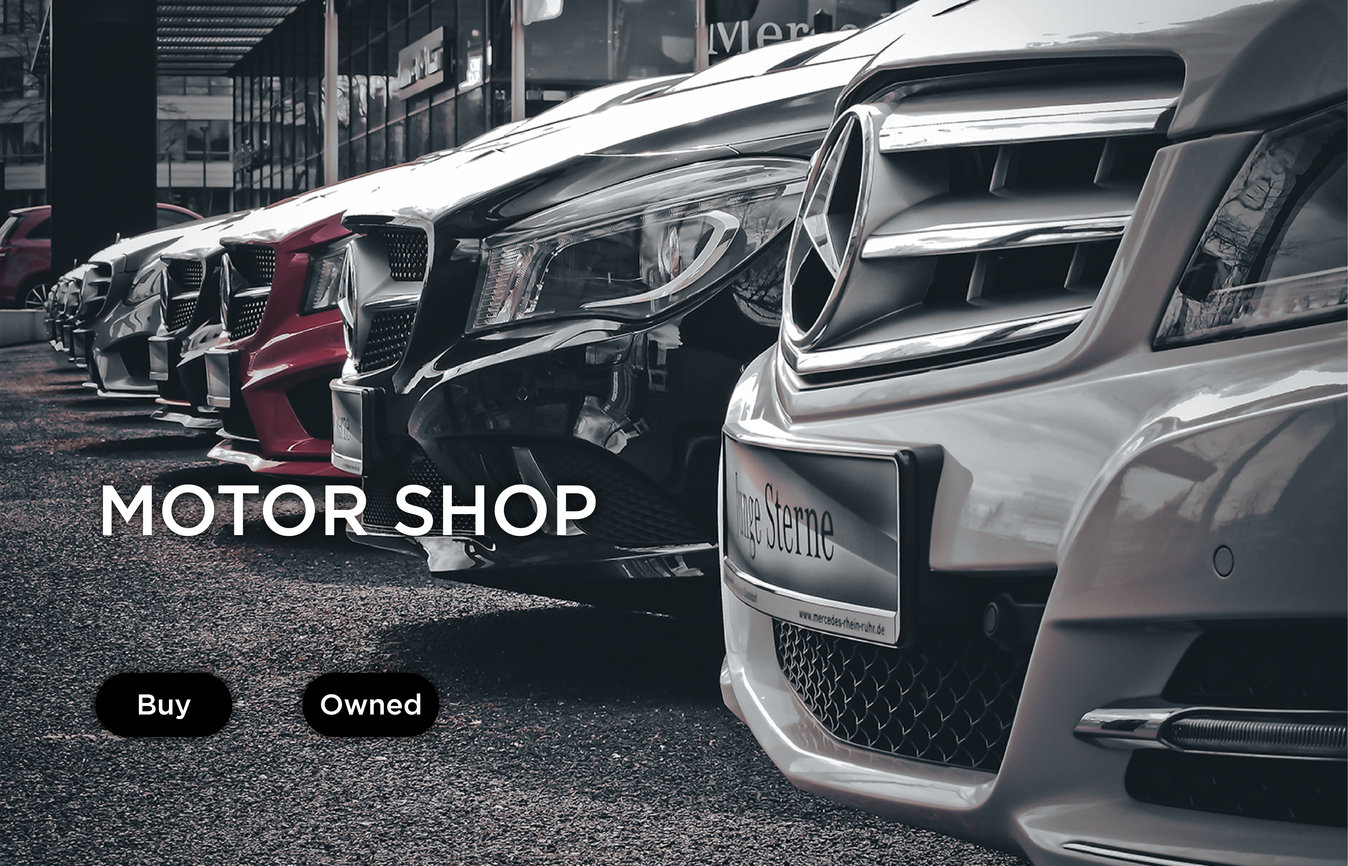
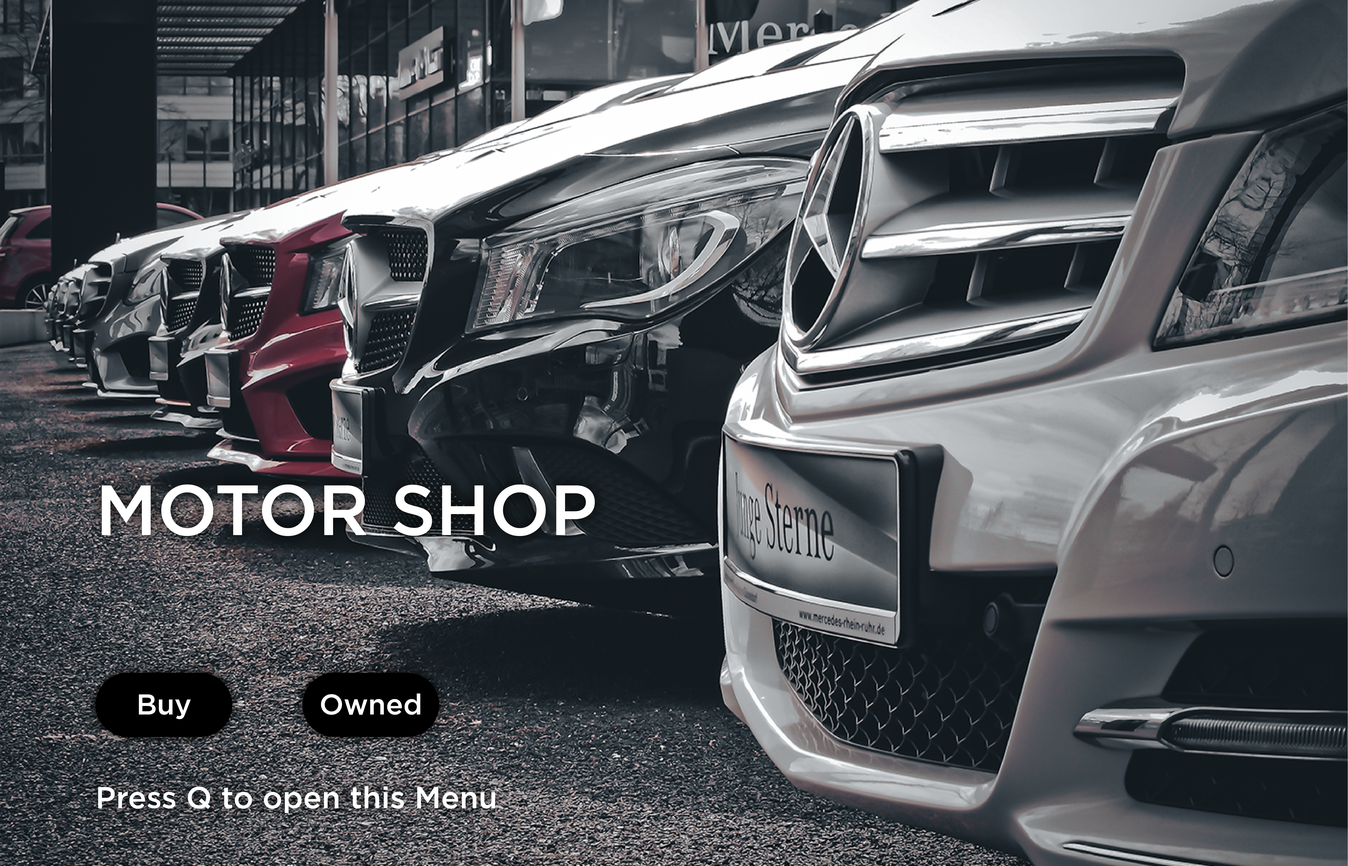
Creación de la interacción entre pantallas

Changed region(s): [[0.0624, 0.9048, 0.3744, 0.936], [0.0936, 0.5616, 0.1248, 0.5928]]

diff --git a/app.js b/app.js
@@ -1,30 +1,104 @@
 class App {
-    constructor(screen) {
-        this.screen = screen;
+    constructor(app) {
+        this.app = app;
+        this.screen = 1;
+        this.menu = this.app.loadImage('Menu.png');
+        this.buy = this.app.loadImage('Comprar.png');
+        this.choose = this.app.loadImage('Escoger.png');
+        this.brands = this.app.loadImage('Marcas.png');
+        this.filters = this.app.loadImage('Filtros.png');
+        this.owned = this.app.loadImage('Comprados.png');
     }
-    app(screen) {
-        switch (screen) {
+    application() {
+        switch (this.screen) {
             case 1: //Menu
+                this.app.image(this.menu, 0, 0, 1400, 900);
+                break;
+            case 2: //Escoger
+                this.app.image(this.choose, 0, 0, 1400, 900);
+                break;
+            case 3: //Filtro
+                this.app.image(this.filters, 0, 0, 1400, 900);
+                break;
+            case 4: // Marcas
+                this.app.image(this.brands, 0, 0, 1400, 900);
+                break;
+            case 5: // Comprar
+                this.app.image(this.buy, 0, 0, 1400, 900);
+                break;
+            case 6: // Comprados
+                this.app.image(this.owned, 0, 0, 1400, 900);
+                break;
+        }
+    }
+    interaction() {
+        switch (this.screen) {
+            case 1: // Menu
+                if (98 < mouseX && mouseX < 242 && 699 < mouseY && mouseY < 766) {
+                    this.screen = 2;
+                }
+                if (314 < mouseX && mouseX < 457 && 699 < mouseY && mouseY < 766) {
+                    this.screen = 6;
+                }
+                break;
+            case 2: // Escoger
+                if (107 < mouseX && mouseX < 429 && 412 < mouseY && mouseY < 518) {
+                    this.screen = 3;
+                }
+                if (539 < mouseX && mouseX < 861 && 412 < mouseY && mouseY < 518) {
+                    this.screen = 4;
+                }
+                if (971 < mouseX && mouseX < 1263 && 412 < mouseY && mouseY < 518) {
+                    this.screen = 5;
+                }
+                break;
+            case 3: // Filtros
+                if (113 < mouseX && mouseX < 445 && 397 < mouseY && mouseY < 503) {
+                    this.screen = 5;
+                }
+                if (539 < mouseX && mouseX < 861 && 397 < mouseY && mouseY < 503) {
+                    this.screen = 5;
+                }
+                if (965 < mouseX && mouseX < 1287 && 397 < mouseY && mouseY < 503) {
+                    this.screen = 5;
+                }
+                if (323 < mouseX && mouseX < 645 && 592 < mouseY && mouseY < 698) {
+                    this.screen = 5;
+                }
+                if (755 < mouseX && mouseX < 645 && 592 < mouseY && mouseY < 1077) {
+                    this.screen = 5;
+                }
+                break;
+            case 4: // Marcas
+                if (118 < mouseX && mouseX < 419 && 212 < mouseY && mouseY < 409) {
+                    this.screen = 5;
+                }
+                if (572 < mouseX && mouseX < 779 && 212 < mouseY && mouseY < 409) {
+                    this.screen = 5;
+                }
+                if (933 < mouseX && mouseX < 1218 && 212 < mouseY && mouseY < 409) {
+                    this.screen = 5;
+                }
+                if (215 < mouseX && mouseX < 380 && 554 < mouseY && mouseY < 687) {
+                    this.screen = 5;
+                }
+                if (599 < mouseX && mouseX < 1154 && 554 < mouseY && mouseY < 687) {
+                    this.screen = 5;
+                }
+                break;
+            case 5: // Comprar
+                if (1067 < mouseX && mouseX < 1211 && 740 < mouseY && mouseY < 808) {
+                    this.screen = 6;
+                }
+                break;
+            case 6: // Comprados
 
                 break;
-            case 2: //Comprar o adquiridos
-
-                break;
-            case 3: //Qué quieres hacer?
-
-                break;
-            case 4: // Filtro
-
-                break;
-            case 5: // Marcas
-
-                break;
-            case 6: // Ver todos
-
-                break;
-            case 7: // Resultados de busqueda
-
-                break;
+        }
+    }
+    openMenu(){
+        if (key === 'Q' || key === 'q') {
+            this.screen = 1;
         }
     }
 }

diff --git a/office.js b/office.js
@@ -35,18 +35,6 @@ class Office {
             }),
             new Car({
                 brand : 'Mazda',
-                model: 'CX-9',
-                engine: 'SKYACTIV - G 2.5',
-                capacity: 5,
-                warranty: 5,
-                taxes: 12,
-                gearbox: 'Manual',
-                fuelType: 'Extra',
-                FuelCapacity: 19.5,
-                price: 49000,
-            }),
-            new Car({
-                brand : 'Mazda',
                 model: 'CX-30',
                 engine: 'SKYACTIV - G 2.5',
                 capacity: 5,

diff --git a/sketch.js b/sketch.js
@@ -1,7 +1,19 @@
+let app;
+
 function setup() {
   createCanvas(1400, 900);
+  app = new App(this);
 }
 
 function draw() {
   background(220);
+  app.application();
+}
+
+function mousePressed() {
+  app.interaction();
+}
+
+function keyPressed(){
+  app.openMenu();
 }

diff --git a/vehicle.js b/vehicle.js
@@ -3,7 +3,7 @@ class Vehicle {
    this.params = params;
     }
     showDetails(){
-        //png del texto de cada vehiculo
+        //Me falta por hacer esto
     }
 }
 
